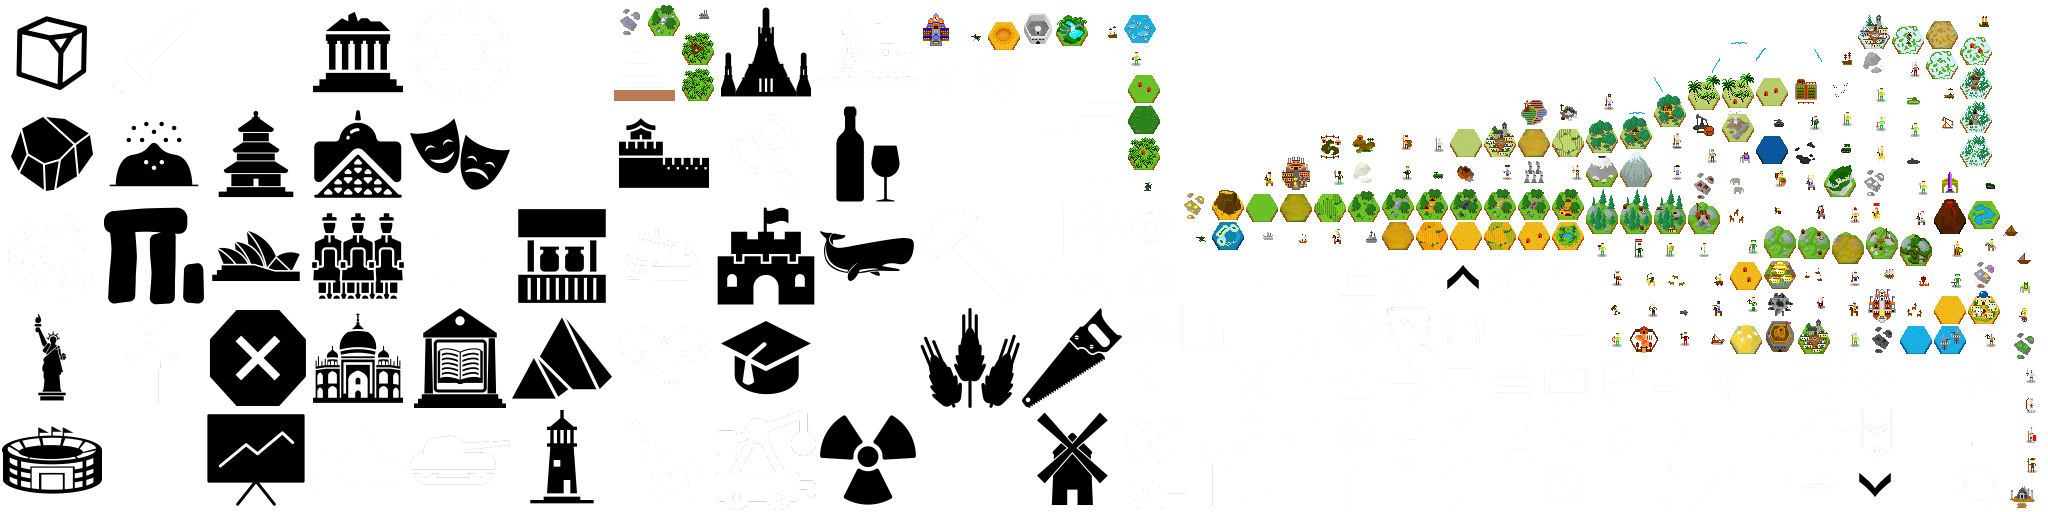
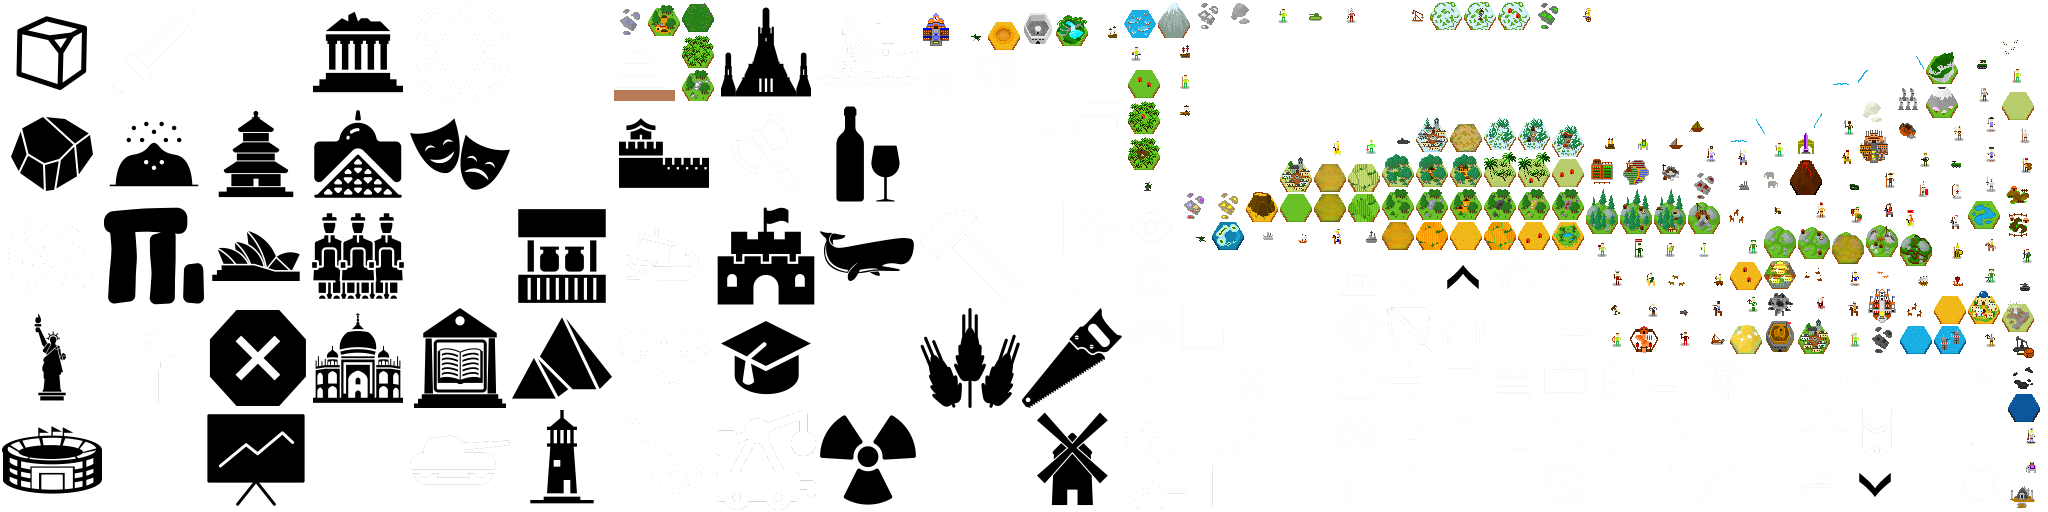
Proper destruction notification for city states Added Fur resource image

diff --git a/core/src/com/unciv/logic/civilization/CivilizationInfo.kt b/core/src/com/unciv/logic/civilization/CivilizationInfo.kt
@@ -469,8 +469,10 @@ class CivilizationInfo {
 
 
     fun destroy(){
+        val destructionText = if(isMajorCiv()) "The civilization of [$civName] has been destroyed!"
+        else "The City-State of [$civName] has been destroyed!"
         for(civ in gameInfo.civilizations)
-            civ.addNotification("The civilization of [$civName] has been destroyed!", null, Color.RED)
+            civ.addNotification(destructionText, null, Color.RED)
         getCivUnits().forEach { it.destroy() }
         tradeRequests.clear() // if we don't do this then there could be resources taken by "pending" trades forever
         for(diplomacyManager in diplomacy.values){
